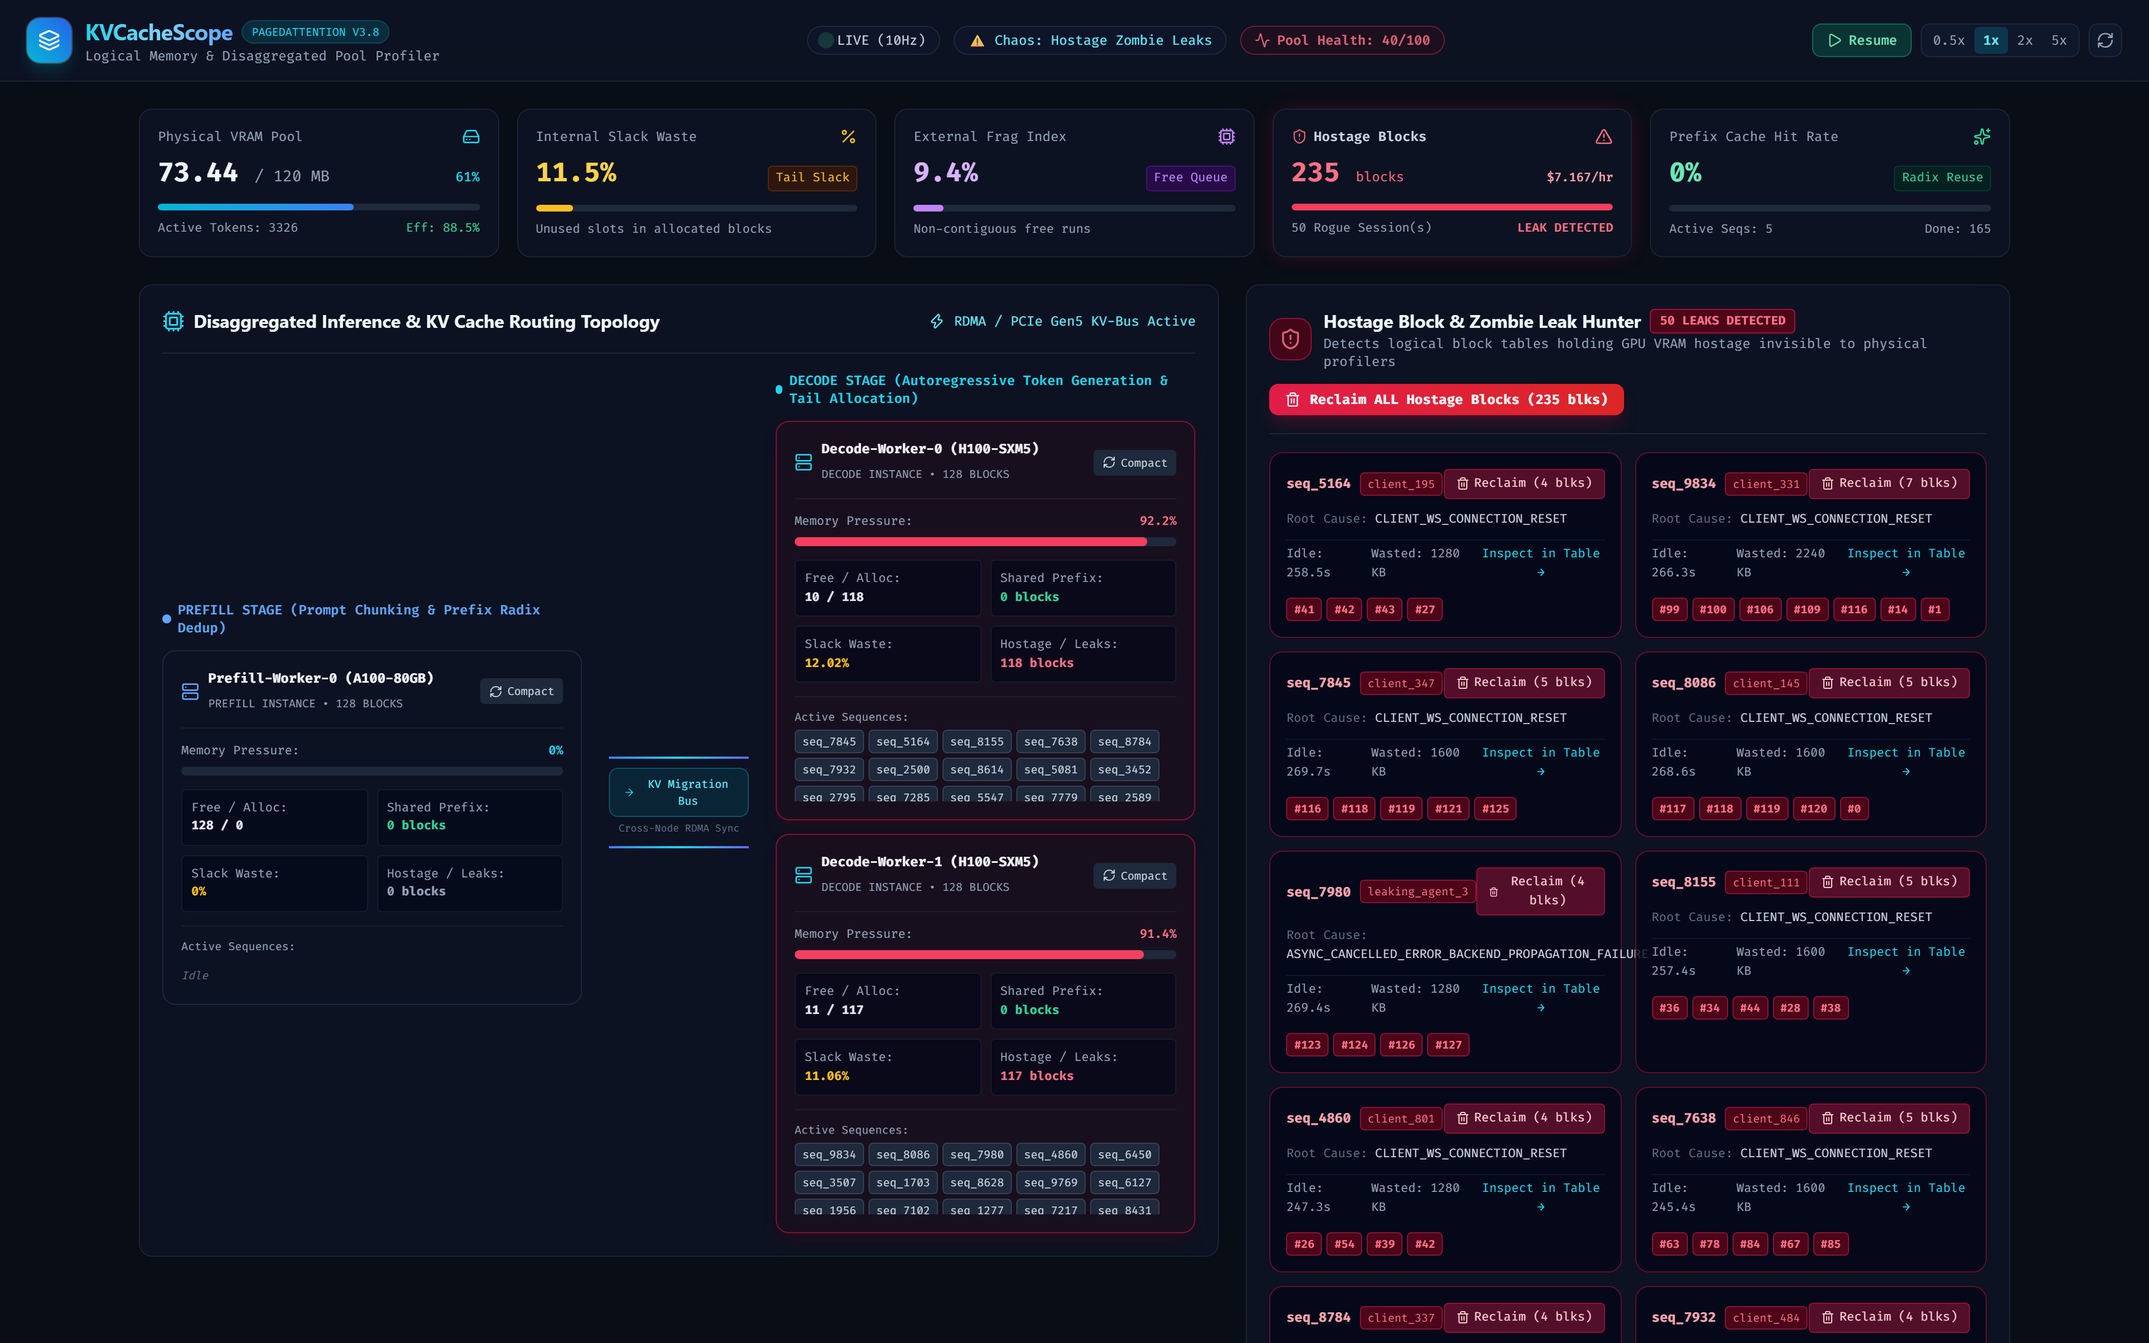
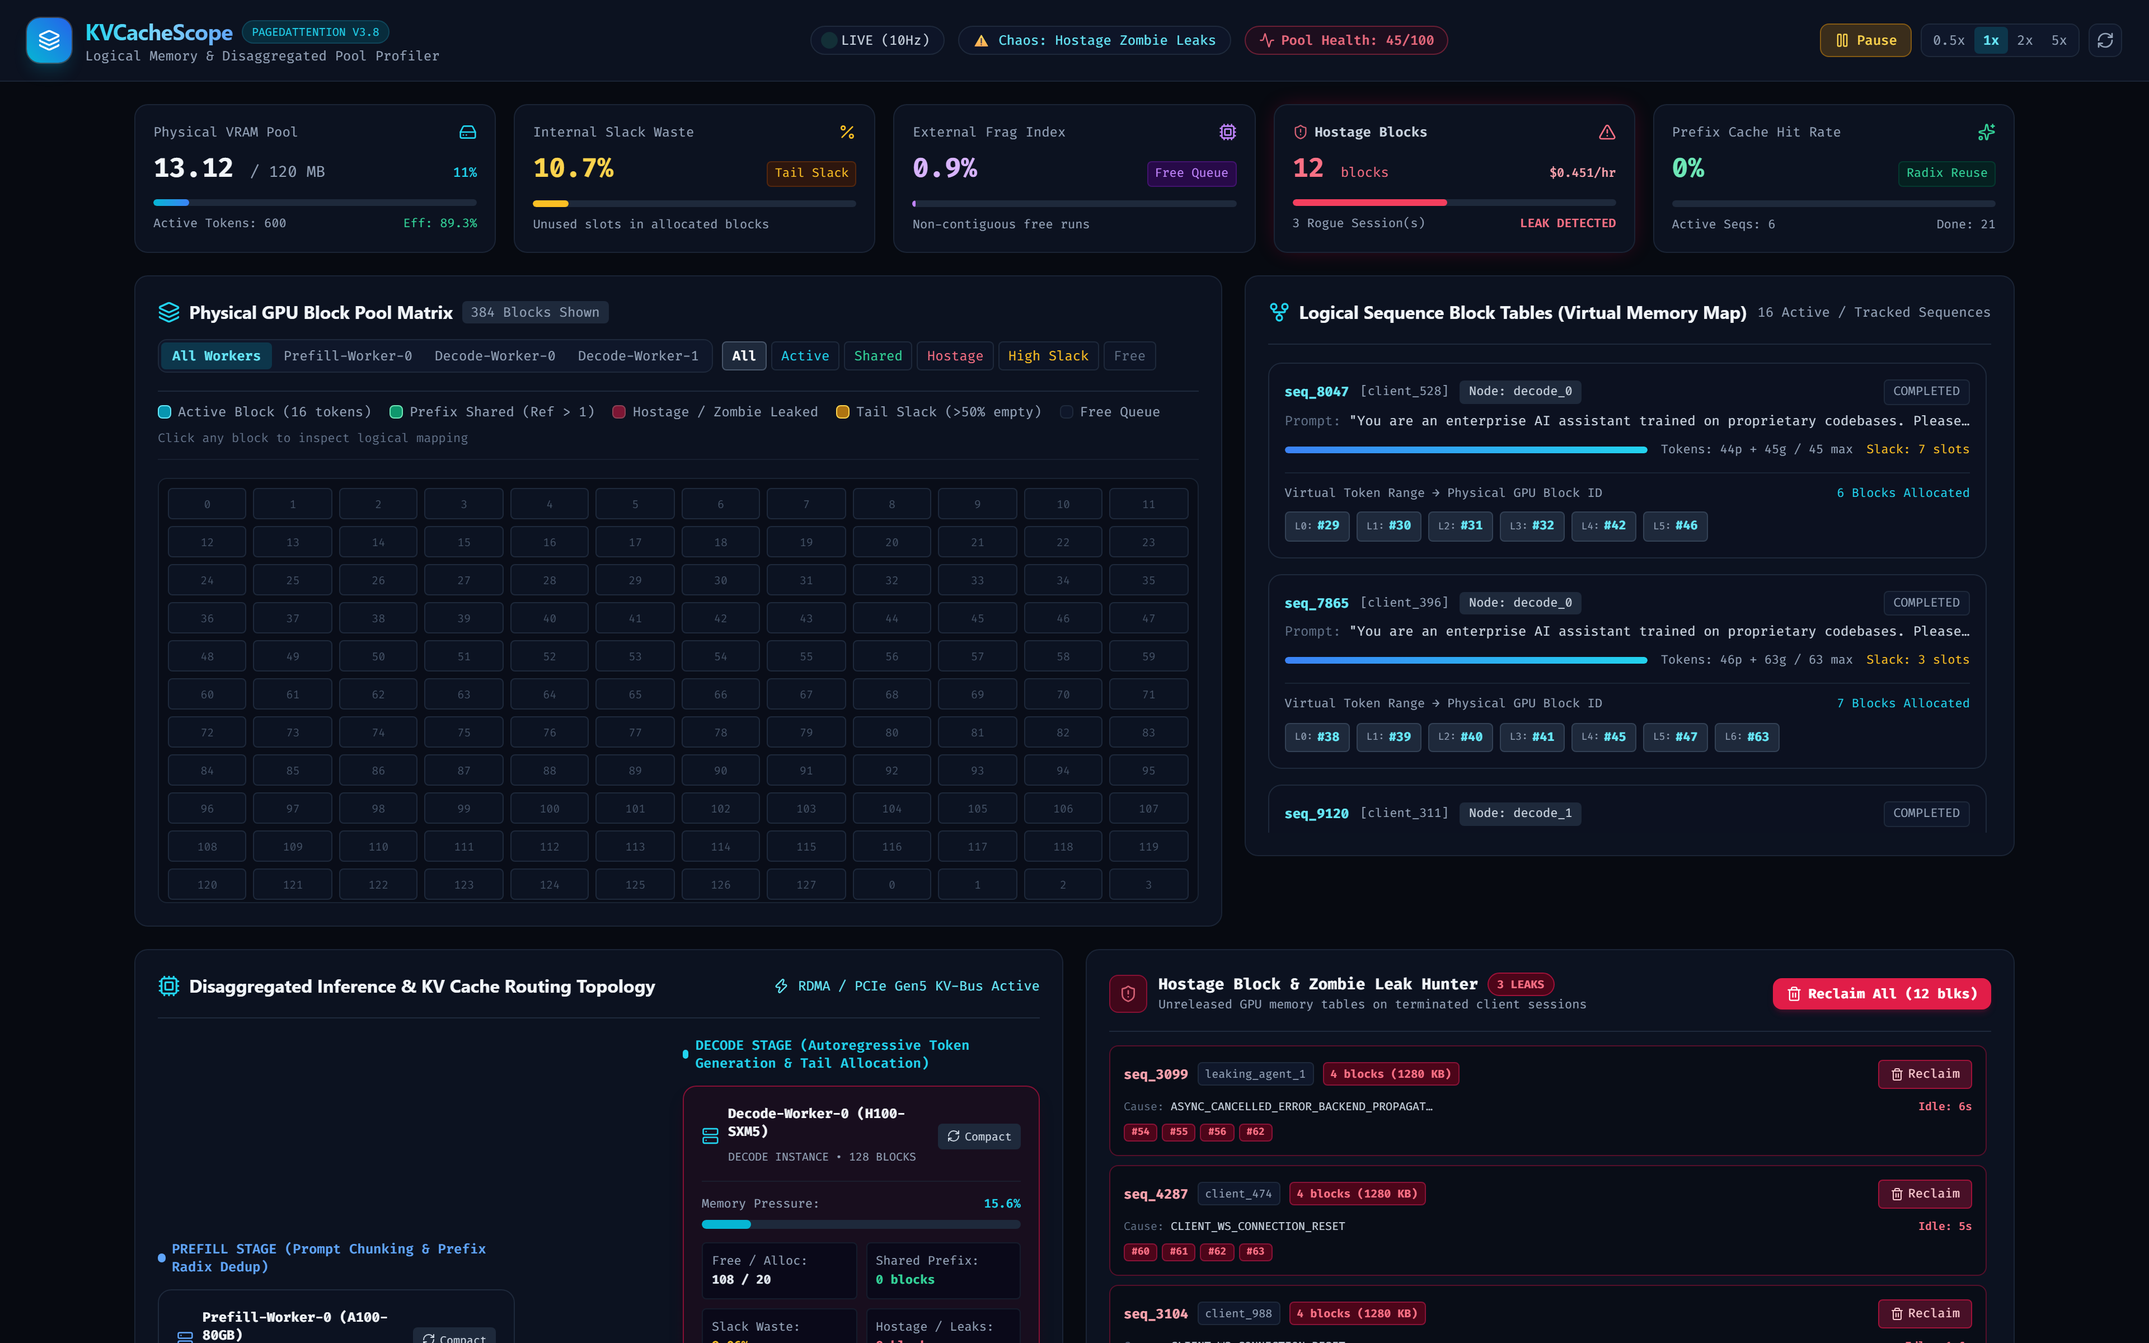
feat(ui): complete cockpit layout redesign with high-density leak rows, hero 2D matrix, and balanced bento grid

diff --git a/frontend/src/components/HostageLeakHunter.tsx b/frontend/src/components/HostageLeakHunter.tsx
@@ -1,5 +1,5 @@
-import React from 'react';
-import { ShieldAlert, Trash2, CheckCircle2, AlertTriangle, ShieldCheck } from 'lucide-react';
+import React, { useState } from 'react';
+import { ShieldAlert, Trash2, CheckCircle2, AlertTriangle, ShieldCheck, Search } from 'lucide-react';
 import type { DiagnosticReport } from '../types';
 
 interface HostageLeakHunterProps {
@@ -15,33 +15,42 @@ export const HostageLeakHunter: React.FC<HostageLeakHunterProps> = ({
   onReclaimAll,
   onSelectSeqId
 }) => {
+  const [searchTerm, setSearchTerm] = useState('');
+
   if (!diagnostics) return null;
 
   const hasHostages = diagnostics.hostage_sequences.length > 0;
+  const filteredHostages = diagnostics.hostage_sequences.filter(h =>
+    h.sequence_id.toLowerCase().includes(searchTerm.toLowerCase()) ||
+    h.client_id.toLowerCase().includes(searchTerm.toLowerCase()) ||
+    h.reason.toLowerCase().includes(searchTerm.toLowerCase())
+  );
 
   return (
-    <div className={`cyber-card p-5 ${
-      hasHostages ? 'border-rose-500/60 bg-rose-950/10' : 'border-slate-800'
+    <div className={`cyber-card p-5 flex flex-col h-full ${
+      hasHostages ? 'border-rose-500/50 bg-rose-950/10' : 'border-slate-800'
     }`}>
       {/* Header */}
-      <div className="flex flex-wrap items-center justify-between pb-4 border-b border-slate-800 gap-3">
+      <div className="flex flex-wrap items-center justify-between pb-3.5 border-b border-slate-800 gap-2">
         <div className="flex items-center space-x-2.5">
-          <div className={`p-2 rounded-xl ${hasHostages ? 'bg-rose-950 text-rose-400 border border-rose-800 animate-pulse' : 'bg-emerald-950 text-emerald-400 border border-emerald-800'}`}>
-            {hasHostages ? <ShieldAlert className="w-5 h-5" /> : <ShieldCheck className="w-5 h-5" />}
+          <div className={`p-2 rounded-lg ${
+            hasHostages ? 'bg-rose-950 text-rose-400 border border-rose-800 animate-pulse' : 'bg-emerald-950 text-emerald-400 border border-emerald-800'
+          }`}>
+            {hasHostages ? <ShieldAlert className="w-4 h-4" /> : <ShieldCheck className="w-4 h-4" />}
           </div>
           <div>
             <div className="flex items-center space-x-2">
-              <h2 className="text-base font-bold text-slate-100">
+              <h2 className="text-sm font-bold font-mono text-slate-100">
                 Hostage Block & Zombie Leak Hunter
               </h2>
               {hasHostages && (
-                <span className="text-[11px] font-mono px-2 py-0.5 rounded bg-rose-950 text-rose-400 border border-rose-800 font-bold">
-                  {diagnostics.hostage_sequences.length} LEAKS DETECTED
+                <span className="text-[10px] font-mono px-2 py-0.5 rounded-full bg-rose-950 text-rose-400 border border-rose-800 font-bold">
+                  {diagnostics.hostage_sequences.length} LEAKS
                 </span>
               )}
             </div>
-            <p className="text-xs text-slate-400 font-mono">
-              Detects logical block tables holding GPU VRAM hostage invisible to physical profilers
+            <p className="text-[11px] text-slate-400 font-mono">
+              Unreleased GPU memory tables on terminated client sessions
             </p>
           </div>
         </div>
@@ -50,87 +59,101 @@ export const HostageLeakHunter: React.FC<HostageLeakHunterProps> = ({
         {hasHostages && (
           <button
             onClick={onReclaimAll}
-            className="px-3.5 py-1.5 rounded-lg bg-gradient-to-r from-rose-600 to-red-600 hover:from-rose-500 hover:to-red-500 text-white font-mono text-xs font-bold flex items-center space-x-2 shadow-lg shadow-rose-900/40 transition-all transform hover:scale-105"
+            className="px-3 py-1.5 rounded-lg bg-rose-600 hover:bg-rose-500 text-white font-mono text-xs font-bold flex items-center space-x-1.5 shadow-md shadow-rose-900/30 transition-all hover:scale-105 active:scale-95"
           >
             <Trash2 className="w-3.5 h-3.5" />
-            <span>Reclaim ALL Hostage Blocks ({diagnostics.total_hostage_blocks} blks)</span>
+            <span>Reclaim All ({diagnostics.total_hostage_blocks} blks)</span>
           </button>
         )}
       </div>
 
-      {/* Main Content */}
-      <div className="mt-4">
+      {/* Main Body */}
+      <div className="mt-3 flex-1 flex flex-col">
         {!hasHostages ? (
-          <div className="p-6 rounded-xl bg-slate-950/60 border border-slate-800/80 flex items-center justify-between">
+          <div className="p-6 rounded-xl bg-slate-950/60 border border-slate-800/80 flex items-center justify-between my-auto">
             <div className="flex items-center space-x-3">
-              <CheckCircle2 className="w-6 h-6 text-emerald-400" />
+              <CheckCircle2 className="w-5 h-5 text-emerald-400" />
               <div>
-                <h4 className="text-sm font-semibold font-mono text-emerald-300">
-                  No Hostage Sequences Detected
+                <h4 className="text-xs font-semibold font-mono text-emerald-300">
+                  Zero Hostage Sequences Detected
                 </h4>
-                <p className="text-xs text-slate-400 font-mono">
-                  All logical block tables are synchronized with active client sessions. Free queue is healthy.
+                <p className="text-[11px] text-slate-400 font-mono">
+                  All logical block tables are synchronized with active client sessions.
                 </p>
               </div>
             </div>
-            <div className="text-right font-mono text-xs text-slate-400">
-              Health Index: <span className="text-emerald-400 font-bold">{diagnostics.health_score}%</span>
-            </div>
+            <span className="text-[11px] font-mono text-emerald-400 font-bold bg-emerald-950/80 px-2 py-1 rounded border border-emerald-800">
+              Pool Health: {diagnostics.health_score}%
+            </span>
           </div>
         ) : (
-          <div className="space-y-3">
-            <div className="grid grid-cols-1 md:grid-cols-2 gap-3">
-              {diagnostics.hostage_sequences.map((h) => (
+          <div className="space-y-2.5 flex-1 flex flex-col">
+            {/* Search Bar for Leaks */}
+            {diagnostics.hostage_sequences.length > 4 && (
+              <div className="relative">
+                <Search className="w-3.5 h-3.5 absolute left-2.5 top-2 text-slate-500" />
+                <input
+                  type="text"
+                  placeholder="Filter by seq_id, client_id, or root cause..."
+                  value={searchTerm}
+                  onChange={(e) => setSearchTerm(e.target.value)}
+                  className="w-full bg-dark-950 border border-slate-800 rounded-lg pl-8 pr-3 py-1.5 text-xs font-mono text-slate-200 placeholder-slate-600 focus:outline-none focus:border-cyan-500"
+                />
+              </div>
+            )}
+
+            {/* Scrollable Compact Leak Rows */}
+            <div className="space-y-2 max-h-[280px] overflow-y-auto pr-1">
+              {filteredHostages.map((h) => (
                 <div
                   key={h.sequence_id}
-                  className="p-3.5 rounded-xl bg-slate-950/80 border border-rose-800/60 space-y-2.5"
+                  className="p-3 rounded-lg bg-dark-950/90 border border-rose-900/60 hover:border-rose-700/80 transition-all flex flex-col gap-2"
                 >
                   <div className="flex items-center justify-between">
                     <div className="flex items-center space-x-2">
-                      <span className="font-mono text-xs font-bold text-rose-300">
+                      <button
+                        onClick={() => onSelectSeqId(h.sequence_id)}
+                        className="font-mono text-xs font-bold text-rose-300 hover:underline flex items-center gap-1"
+                      >
                         {h.sequence_id}
-                      </span>
-                      <span className="text-[10px] font-mono px-1.5 py-0.5 rounded bg-rose-950 text-rose-400 border border-rose-900">
+                      </button>
+                      <span className="text-[10px] font-mono px-1.5 py-0.5 rounded bg-slate-900 text-slate-400 border border-slate-800">
                         {h.client_id}
                       </span>
+                      <span className="text-[10px] font-mono px-1.5 py-0.5 rounded bg-rose-950 text-rose-400 font-bold border border-rose-900">
+                        {h.hostage_block_ids.length} blocks ({h.wasted_memory_kb} KB)
+                      </span>
                     </div>
+
                     <button
                       onClick={() => onReclaimSeq(h.sequence_id)}
-                      className="px-2.5 py-1 rounded bg-rose-900/60 hover:bg-rose-800 text-rose-200 text-[11px] font-mono flex items-center space-x-1 transition-colors border border-rose-700/60"
+                      className="px-2.5 py-1 rounded bg-rose-900/50 hover:bg-rose-800 text-rose-200 text-[11px] font-mono flex items-center space-x-1 border border-rose-800 transition-colors"
                     >
                       <Trash2 className="w-3 h-3" />
-                      <span>Reclaim ({h.hostage_block_ids.length} blks)</span>
+                      <span>Reclaim</span>
                     </button>
                   </div>
 
-                  <div className="text-[11px] font-mono text-slate-300">
-                    <span className="text-slate-500">Root Cause:</span> {h.reason}
+                  <div className="flex items-center justify-between text-[10px] font-mono text-slate-400">
+                    <span className="text-slate-300 truncate max-w-[280px]" title={h.reason}>
+                      <span className="text-slate-500">Cause:</span> {h.reason}
+                    </span>
+                    <span className="text-rose-400 font-semibold">Idle: {h.idle_duration_sec}s</span>
                   </div>
 
-                  <div className="flex items-center justify-between text-[11px] font-mono text-slate-400 pt-1 border-t border-slate-900">
-                    <span>Idle: {h.idle_duration_sec}s</span>
-                    <span>Wasted: {h.wasted_memory_kb} KB</span>
-                    <button
-                      onClick={() => onSelectSeqId(h.sequence_id)}
-                      className="text-cyan-400 hover:underline"
-                    >
-                      Inspect in Table &rarr;
-                    </button>
-                  </div>
-
-                  {/* Hostage Block IDs */}
-                  <div className="flex flex-wrap gap-1 pt-1">
-                    {h.hostage_block_ids.slice(0, 12).map((bid) => (
+                  {/* Block ID Pills */}
+                  <div className="flex flex-wrap items-center gap-1">
+                    {h.hostage_block_ids.slice(0, 10).map((bid) => (
                       <span
                         key={bid}
-                        className="px-1.5 py-0.5 rounded bg-rose-950 text-rose-400 border border-rose-900 text-[10px] font-mono font-bold"
+                        className="px-1.5 py-0.2 rounded bg-rose-950 text-rose-400 border border-rose-900 text-[9px] font-mono font-bold"
                       >
                         #{bid}
                       </span>
                     ))}
-                    {h.hostage_block_ids.length > 12 && (
-                      <span className="text-[10px] font-mono text-slate-500 self-center">
-                        +{h.hostage_block_ids.length - 12} more
+                    {h.hostage_block_ids.length > 10 && (
+                      <span className="text-[9px] font-mono text-slate-500">
+                        +{h.hostage_block_ids.length - 10} more
                       </span>
                     )}
                   </div>
@@ -138,18 +161,13 @@ export const HostageLeakHunter: React.FC<HostageLeakHunterProps> = ({
               ))}
             </div>
 
-            {/* Diagnostic Recommendations */}
+            {/* Remediation Tip */}
             {diagnostics.recommendations.length > 0 && (
-              <div className="p-3 rounded-lg bg-amber-950/30 border border-amber-800/40 text-xs font-mono text-amber-300 space-y-1">
-                <span className="font-bold flex items-center gap-1">
-                  <AlertTriangle className="w-3.5 h-3.5" />
-                  Automated Engine Remediation Advice:
+              <div className="p-2.5 rounded-lg bg-amber-950/20 border border-amber-900/40 text-[11px] font-mono text-amber-300 flex items-center justify-between">
+                <span className="flex items-center gap-1">
+                  <AlertTriangle className="w-3.5 h-3.5 text-amber-400" />
+                  <span>{diagnostics.recommendations[0]}</span>
                 </span>
-                <ul className="list-disc list-inside space-y-0.5 text-slate-300 pl-1">
-                  {diagnostics.recommendations.map((rec, idx) => (
-                    <li key={idx}>{rec}</li>
-                  ))}
-                </ul>
               </div>
             )}
           </div>

diff --git a/frontend/src/App.tsx b/frontend/src/App.tsx
@@ -160,7 +160,7 @@ export function App() {
   };
 
   return (
-    <div className="min-h-screen bg-dark-950 text-slate-100 flex flex-col selection:bg-cyan-500 selection:text-black">
+    <div className="min-h-screen bg-[#070A11] text-slate-100 flex flex-col selection:bg-cyan-500 selection:text-black">
       {/* Top Header */}
       <Header
         state={snapshot}
@@ -172,36 +172,16 @@ export function App() {
       />
 
       {/* Main Content Dashboard */}
-      <main className="flex-1 p-6 max-w-[1720px] mx-auto w-full space-y-6">
-        {/* Top Metric Cards */}
+      <main className="flex-1 p-5 max-w-[1720px] mx-auto w-full space-y-5">
+        {/* Row 1: Top Metric Cards */}
         <MetricCards
           metrics={snapshot?.metrics ?? null}
           diagnostics={snapshot?.diagnostics ?? null}
         />
 
-        {/* Middle Row: Disaggregated Topology & Hostage Hunter */}
-        <div className="grid grid-cols-1 xl:grid-cols-12 gap-6">
-          <div className="xl:col-span-7">
-            <DisaggregatedTopology
-              nodes={snapshot?.nodes ?? {}}
-              onDefragNode={handleDefragNode}
-              selectedSeqId={selectedSeqId}
-              onSelectSeqId={setSelectedSeqId}
-            />
-          </div>
-          <div className="xl:col-span-5">
-            <HostageLeakHunter
-              diagnostics={snapshot?.diagnostics ?? null}
-              onReclaimSeq={handleReclaimSeq}
-              onReclaimAll={handleReclaimAll}
-              onSelectSeqId={setSelectedSeqId}
-            />
-          </div>
-        </div>
-
-        {/* Primary Core: Physical Block Heatmap Matrix + Logical Table Viewer */}
-        <div className="grid grid-cols-1 xl:grid-cols-12 gap-6">
-          {/* Left: 2D Block Heatmap Matrix */}
+        {/* Row 2 (Hero Core): Physical Block Heatmap Matrix + Logical Table Viewer */}
+        <div className="grid grid-cols-1 xl:grid-cols-12 gap-5">
+          {/* Left: 2D Block Heatmap Matrix (7 cols) */}
           <div className="xl:col-span-7">
             <BlockPoolHeatmap
               blocksByNode={snapshot?.blocks_by_node ?? {}}
@@ -211,7 +191,7 @@ export function App() {
             />
           </div>
 
-          {/* Right: Sequence-Centric Logical Block Tables */}
+          {/* Right: Sequence-Centric Logical Block Tables (5 cols) */}
           <div className="xl:col-span-5">
             <LogicalTableViewer
               sequences={snapshot?.sequences ?? {}}
@@ -222,8 +202,28 @@ export function App() {
           </div>
         </div>
 
-        {/* Bottom Row: Workload Scenarios & Live Event Log */}
-        <div className="grid grid-cols-1 xl:grid-cols-12 gap-6">
+        {/* Row 3: Disaggregated Topology & Hostage Hunter (Balanced 6/6 Grid) */}
+        <div className="grid grid-cols-1 xl:grid-cols-12 gap-5">
+          <div className="xl:col-span-6">
+            <DisaggregatedTopology
+              nodes={snapshot?.nodes ?? {}}
+              onDefragNode={handleDefragNode}
+              selectedSeqId={selectedSeqId}
+              onSelectSeqId={setSelectedSeqId}
+            />
+          </div>
+          <div className="xl:col-span-6">
+            <HostageLeakHunter
+              diagnostics={snapshot?.diagnostics ?? null}
+              onReclaimSeq={handleReclaimSeq}
+              onReclaimAll={handleReclaimAll}
+              onSelectSeqId={setSelectedSeqId}
+            />
+          </div>
+        </div>
+
+        {/* Row 4: Workload Scenarios & Live Event Log */}
+        <div className="grid grid-cols-1 xl:grid-cols-12 gap-5">
           <div className="xl:col-span-7">
             <ScenarioControls
               currentScenario={snapshot?.scenario ?? 'normal_traffic'}
